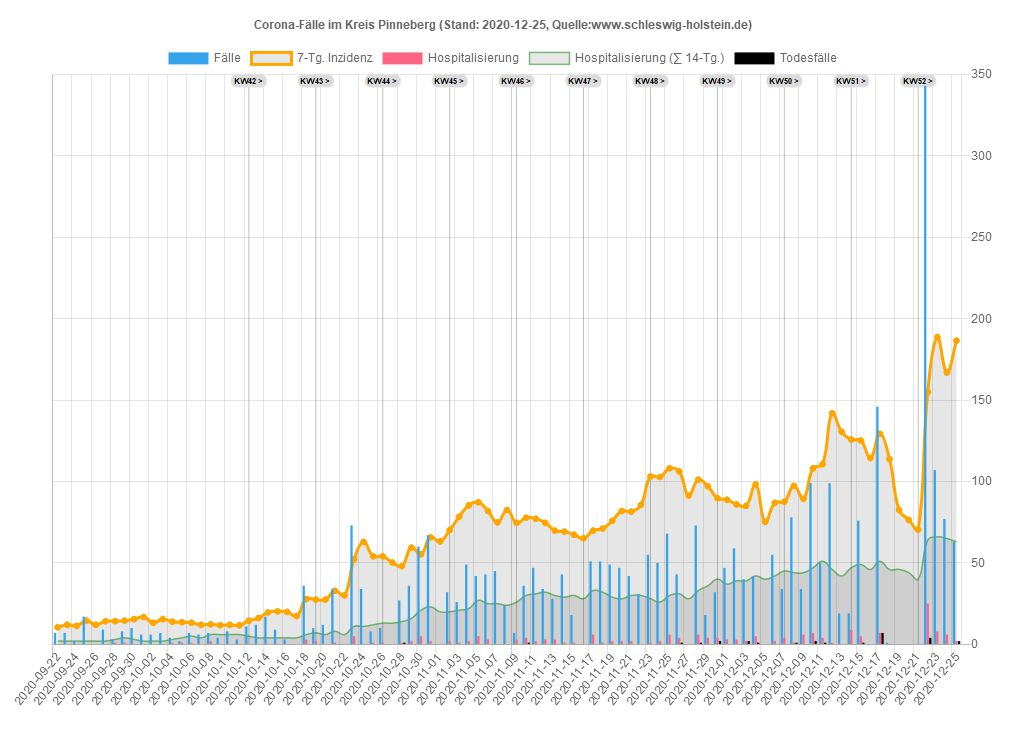
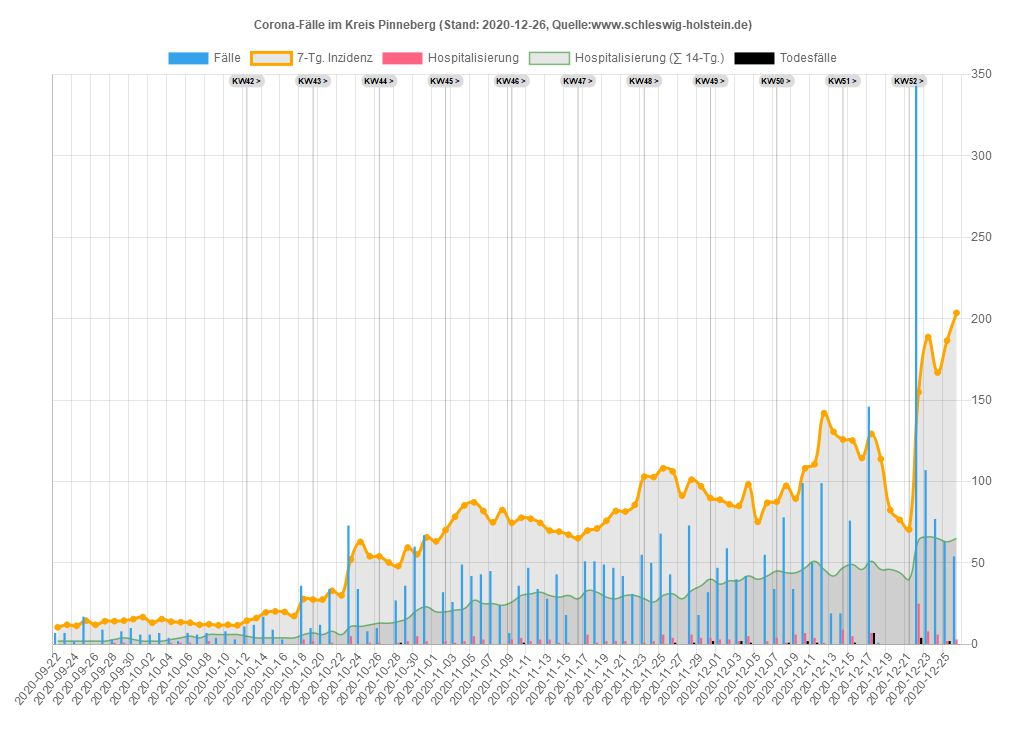
26.12.2020 21:21:05,03

diff --git a/sh/Data_SH.js b/sh/Data_SH.js
@@ -1,33 +1,33 @@
 var chdata={
-labels: ["2020-09-22","2020-09-23","2020-09-24","2020-09-25","2020-09-26","2020-09-27","2020-09-28","2020-09-29","2020-09-30","2020-10-01","2020-10-02","2020-10-03","2020-10-04","2020-10-05","2020-10-06","2020-10-07","2020-10-08","2020-10-09","2020-10-10","2020-10-11","2020-10-12","2020-10-13","2020-10-14","2020-10-15","2020-10-16","2020-10-17","2020-10-18","2020-10-19","2020-10-20","2020-10-21","2020-10-22","2020-10-23","2020-10-24","2020-10-25","2020-10-26","2020-10-27","2020-10-28","2020-10-29","2020-10-30","2020-10-31","2020-11-01","2020-11-02","2020-11-03","2020-11-04","2020-11-05","2020-11-06","2020-11-07","2020-11-08","2020-11-09","2020-11-10","2020-11-11","2020-11-12","2020-11-13","2020-11-14","2020-11-15","2020-11-16","2020-11-17","2020-11-18","2020-11-19","2020-11-20","2020-11-21","2020-11-22","2020-11-23","2020-11-24","2020-11-25","2020-11-26","2020-11-27","2020-11-28","2020-11-29","2020-11-30","2020-12-01","2020-12-02","2020-12-03","2020-12-04","2020-12-05","2020-12-06","2020-12-07","2020-12-08","2020-12-09","2020-12-10","2020-12-11","2020-12-12","2020-12-13","2020-12-14","2020-12-15","2020-12-16","2020-12-17","2020-12-18","2020-12-19","2020-12-20","2020-12-21","2020-12-22","2020-12-23","2020-12-24","2020-12-25"],
+labels: ["2020-09-22","2020-09-23","2020-09-24","2020-09-25","2020-09-26","2020-09-27","2020-09-28","2020-09-29","2020-09-30","2020-10-01","2020-10-02","2020-10-03","2020-10-04","2020-10-05","2020-10-06","2020-10-07","2020-10-08","2020-10-09","2020-10-10","2020-10-11","2020-10-12","2020-10-13","2020-10-14","2020-10-15","2020-10-16","2020-10-17","2020-10-18","2020-10-19","2020-10-20","2020-10-21","2020-10-22","2020-10-23","2020-10-24","2020-10-25","2020-10-26","2020-10-27","2020-10-28","2020-10-29","2020-10-30","2020-10-31","2020-11-01","2020-11-02","2020-11-03","2020-11-04","2020-11-05","2020-11-06","2020-11-07","2020-11-08","2020-11-09","2020-11-10","2020-11-11","2020-11-12","2020-11-13","2020-11-14","2020-11-15","2020-11-16","2020-11-17","2020-11-18","2020-11-19","2020-11-20","2020-11-21","2020-11-22","2020-11-23","2020-11-24","2020-11-25","2020-11-26","2020-11-27","2020-11-28","2020-11-29","2020-11-30","2020-12-01","2020-12-02","2020-12-03","2020-12-04","2020-12-05","2020-12-06","2020-12-07","2020-12-08","2020-12-09","2020-12-10","2020-12-11","2020-12-12","2020-12-13","2020-12-14","2020-12-15","2020-12-16","2020-12-17","2020-12-18","2020-12-19","2020-12-20","2020-12-21","2020-12-22","2020-12-23","2020-12-24","2020-12-25","2020-12-26"],
 datasets: [
 {label: 'Fälle',
 type: 'bar',
 backgroundColor: window.chartColors.blue,
-data: [38,42,63,53,15,15,38,48,49,27,50,16,24,39,54,45,79,54,26,25,65,65,65,55,90,26,88,163,111,160,136,236,142,115,164,164,280,215,313,265,161,142,236,262,220,274,233,177,215,252,247,192,296,158,161,100,294,208,264,250,153,121,145,251,256,225,180,219,71,81,244,240,245,318,234,154,183,314,297,529,384,472,140,241,486,322,602,508,431,157,211,776,722,306,229]},
+data: [38,42,63,53,15,15,38,48,49,27,50,16,24,39,54,45,79,54,26,25,65,65,65,55,90,26,88,163,111,160,136,236,142,115,164,164,280,215,313,265,161,142,236,262,220,274,233,177,215,252,247,192,296,158,161,100,294,208,264,250,153,121,145,251,256,225,180,219,71,81,244,240,245,318,234,154,183,314,297,529,384,472,140,241,486,322,602,508,431,157,211,776,722,306,229,229]},
 {label: '7-Tg. Inzidenz',
 type: 'line',
 pointBackgroundColor: 'orange',
 borderColor: 'orange',
-data: [7.23197027,7.88629139,8.74724023,9.40156135,9.33268544,9.16049567,9.09161977,9.4359993,9.67706498,8.43729865,8.33398478,8.36842274,8.67836432,8.71280227,8.91943,8.78167818,10.5724518,10.7102036,11.0545831,11.0890211,11.9844079,12.3632254,13.0519844,12.2254735,13.4652399,13.4652399,15.634831,19.0097504,20.5938963,23.8655019,26.6549761,31.6829174,35.67772,36.6075447,36.6419827,38.4671942,42.5997487,45.320347,47.9720694,52.2079377,53.7920836,53.0344486,55.5139813,54.8940981,55.0662879,53.7232077,52.6211932,53.1722004,55.6861711,56.2371783,55.720609,54.7563463,55.5139813,52.9311348,52.3801275,48.4197628,49.8661569,48.5230767,51.0026094,49.4184635,49.2462737,47.8687556,49.4184635,47.9376315,49.5906533,48.2475731,45.8369163,48.1098213,46.3879236,44.1838945,43.9428289,43.3918216,44.0805807,48.8330183,49.3495876,52.2079377,55.720609,58.1312658,60.0942291,69.874608,72.1475129,80.3437459,79.8616145,81.8590158,87.7823439,88.6432927,91.1572633,95.4275696,94.0156135,94.6010587,93.5679201,103.554927,117.330108,107.136474,97.5282848]},
+data: [7.23197027,7.88629139,8.74724023,9.40156135,9.33268544,9.16049567,9.09161977,9.4359993,9.67706498,8.43729865,8.33398478,8.36842274,8.67836432,8.71280227,8.91943,8.78167818,10.5724518,10.7102036,11.0545831,11.0890211,11.9844079,12.3632254,13.0519844,12.2254735,13.4652399,13.4652399,15.634831,19.0097504,20.5938963,23.8655019,26.6549761,31.6829174,35.67772,36.6075447,36.6419827,38.4671942,42.5997487,45.320347,47.9720694,52.2079377,53.7920836,53.0344486,55.5139813,54.8940981,55.0662879,53.7232077,52.6211932,53.1722004,55.6861711,56.2371783,55.720609,54.7563463,55.5139813,52.9311348,52.3801275,48.4197628,49.8661569,48.5230767,51.0026094,49.4184635,49.2462737,47.8687556,49.4184635,47.9376315,49.5906533,48.2475731,45.8369163,48.1098213,46.3879236,44.1838945,43.9428289,43.3918216,44.0805807,48.8330183,49.3495876,52.2079377,55.720609,58.1312658,60.0942291,69.874608,72.1475129,80.3437459,79.8616145,81.8590158,87.7823439,88.6432927,91.1572633,95.4275696,94.0156135,94.6010587,93.5679201,103.554927,117.330108,107.136474,97.5282848,90.5718181]},
 {label: 'Hospitalisierung',
 type: 'bar',
 backgroundColor: window.chartColors.red,
-data: [1,2,7,1,0,0,2,1,3,1,1,0,4,3,1,1,4,2,0,3,5,1,1,2,4,0,9,10,8,9,12,7,5,6,7,7,11,10,11,6,3,9,19,20,15,15,5,7,13,15,21,13,17,8,17,13,23,10,15,9,7,7,13,16,26,19,12,14,15,10,12,8,10,14,3,5,24,13,26,20,14,12,6,26,27,16,20,18,8,13,13,43,35,23,17]},
+data: [1,2,7,1,0,0,2,1,3,1,1,0,4,3,1,1,4,2,0,3,5,1,1,2,4,0,9,10,8,9,12,7,5,6,7,7,11,10,11,6,3,9,19,20,15,15,5,7,13,15,21,13,17,8,17,13,23,10,15,9,7,7,13,16,26,19,12,14,15,10,12,8,10,14,3,5,24,13,26,20,14,12,6,26,27,16,20,18,8,13,13,43,35,23,17,21]},
 {label: 'Hosp. (∑ 14-Tg.)',
 type: 'line',
 borderColor: 'rgba(0,255,0,0.5)',
 borderWidth: 1.5,
 pointRadius: 0,
-data: [12,12,20,22,22,22,22,23,23,21,22,21,24,26,26,25,22,23,23,26,29,29,27,28,31,31,36,43,50,58,66,71,76,79,81,87,97,105,112,118,112,111,122,133,136,144,144,145,151,159,169,172,178,180,194,198,202,192,192,186,188,188,188,189,194,200,195,201,199,196,185,183,178,183,179,177,188,185,185,186,188,186,177,193,208,216,226,230,235,243,232,262,271,274,277]},
+data: [12,12,20,22,22,22,22,23,23,21,22,21,24,26,26,25,22,23,23,26,29,29,27,28,31,31,36,43,50,58,66,71,76,79,81,87,97,105,112,118,112,111,122,133,136,144,144,145,151,159,169,172,178,180,194,198,202,192,192,186,188,188,188,189,194,200,195,201,199,196,185,183,178,183,179,177,188,185,185,186,188,186,177,193,208,216,226,230,235,243,232,262,271,274,277,286]},
 {label: 'Aktuell im Krankenhaus',
 type: 'line',
 pointBackgroundColor: 'green',
 borderColor: 'green',
-data: [6,6,6,6,6,6,6,11,11,11,11,14,14,15,15,14,14,14,13,13,18,18,18,21,24,24,24,24,31,31,31,31,51,51,58,58,58,58,58,58,58,94,110,114,119,118,124,120,126,116,113,119,112,116,116,148,145,151,141,141,141,141,155,142,122,113,118,118,118,124,114,110,109,114,114,114,131,122,128,132,133,133,133,177,181,194,201,212,236,250,275,271,267,262,262]},
+data: [6,6,6,6,6,6,6,11,11,11,11,14,14,15,15,14,14,14,13,13,18,18,18,21,24,24,24,24,31,31,31,31,51,51,58,58,58,58,58,58,58,94,110,114,119,118,124,120,126,116,113,119,112,116,116,148,145,151,141,141,141,141,155,142,122,113,118,118,118,124,114,110,109,114,114,114,131,122,128,132,133,133,133,177,181,194,201,212,236,250,275,271,267,262,262,262]},
 {label: 'Todesfälle',
 type: 'bar',
 backgroundColor: 'black',
-data: [0,0,0,0,0,0,0,1,0,0,0,0,0,0,0,0,0,0,0,0,0,1,0,0,0,0,0,0,0,0,1,0,0,3,0,0,3,4,1,0,2,6,7,2,2,6,0,1,4,3,5,0,5,1,3,5,0,2,2,2,1,0,3,4,1,3,3,1,4,2,3,1,4,1,0,1,4,2,5,7,7,1,2,2,6,7,11,3,2,0,9,15,4,3,4]},
+data: [0,0,0,0,0,0,0,1,0,0,0,0,0,0,0,0,0,0,0,0,0,1,0,0,0,0,0,0,0,0,1,0,0,3,0,0,3,4,1,0,2,6,7,2,2,6,0,1,4,3,5,0,5,1,3,5,0,2,2,2,1,0,3,4,1,3,3,1,4,2,3,1,4,1,0,1,4,2,5,7,7,1,2,2,6,7,11,3,2,0,9,15,4,3,4,7]},
 ]};
 

diff --git a/sh/Data_SH_Alter.js b/sh/Data_SH_Alter.js
@@ -105,7 +105,8 @@ var chdata={
 				{x: '2020-12-22', y: 'Alle', v: 102.797292, casesum: 2985},{x: '2020-12-22', y: '00-09', v: 43.2374319, casesum: 111},{x: '2020-12-22', y: '10-19', v: 104.34518, casesum: 288},{x: '2020-12-22', y: '20-29', v: 150.955426, casesum: 483},{x: '2020-12-22', y: '30-39', v: 114.25545, casesum: 384},{x: '2020-12-22', y: '40-49', v: 115.753547, casesum: 408},{x: '2020-12-22', y: '50-59', v: 111.223029, casesum: 551},{x: '2020-12-22', y: '60-69', v: 77.2976096, casesum: 281},{x: '2020-12-22', y: '70-79', v: 52.3770744, casesum: 155},{x: '2020-12-22', y: '80-89', v: 129.16429, casesum: 231},{x: '2020-12-22', y: '90+', v: 322.737368, casesum: 93},
 				{x: '2020-12-23', y: 'Alle', v: 81.411839, casesum: 2364.015},{x: '2020-12-23', y: '00-09', v: 47.5222225, casesum: 122},{x: '2020-12-23', y: '10-19', v: 111.953682, casesum: 309},{x: '2020-12-23', y: '20-29', v: 163.456911, casesum: 523},{x: '2020-12-23', y: '30-39', v: 130.620163, casesum: 439},{x: '2020-12-23', y: '40-49', v: 133.910966, casesum: 472},{x: '2020-12-23', y: '50-59', v: -83.1619234, casesum: -411.985},{x: '2020-12-23', y: '60-69', v: 92.4270349, casesum: 336},{x: '2020-12-23', y: '70-79', v: 57.1079069, casesum: 169},{x: '2020-12-23', y: '80-89', v: 158.799387, casesum: 284},{x: '2020-12-23', y: '90+', v: 423.375902, casesum: 122},
 				{x: '2020-12-24', y: 'Alle', v: 1.9639965, casesum: 57.030},{x: '2020-12-24', y: '00-09', v: 40.1212206, casesum: 103},{x: '2020-12-24', y: '10-19', v: 103.258251, casesum: 285},{x: '2020-12-24', y: '20-29', v: -165.331508, casesum: -528.998},{x: '2020-12-24', y: '30-39', v: 122.586577, casesum: 412},{x: '2020-12-24', y: '40-49', v: 121.427741, casesum: 428},{x: '2020-12-24', y: '50-59', v: -306.614641, casesum: -1518.972},{x: '2020-12-24', y: '60-69', v: 85.5500234, casesum: 311},{x: '2020-12-24', y: '70-79', v: 52.0391578, casesum: 154},{x: '2020-12-24', y: '80-89', v: 159.35854, casesum: 285},{x: '2020-12-24', y: '90+', v: 440.727374, casesum: 127},
-				{x: '2020-12-25', y: 'Alle', v: -8.33178076, casesum: -241.936},{x: '2020-12-25', y: '00-09', v: 35.0573772, casesum: 90},{x: '2020-12-25', y: '10-19', v: 93.8381998, casesum: 259},{x: '2020-12-25', y: '20-29', v: -182.518862, casesum: -583.991},{x: '2020-12-25', y: '30-39', v: 113.66037, casesum: 382},{x: '2020-12-25', y: '40-49', v: 105.539999, casesum: 372},{x: '2020-12-25', y: '50-59', v: -318.115022, casesum: -1575.945},{x: '2020-12-25', y: '60-69', v: 78.9480923, casesum: 287},{x: '2020-12-25', y: '70-79', v: 46.632492, casesum: 138},{x: '2020-12-25', y: '80-89', v: 152.089554, casesum: 272},{x: '2020-12-25', y: '90+', v: 409.494725, casesum: 118}
+				{x: '2020-12-25', y: 'Alle', v: -8.33178076, casesum: -241.936},{x: '2020-12-25', y: '00-09', v: 35.0573772, casesum: 90},{x: '2020-12-25', y: '10-19', v: 93.8381998, casesum: 259},{x: '2020-12-25', y: '20-29', v: -182.518862, casesum: -583.991},{x: '2020-12-25', y: '30-39', v: 113.66037, casesum: 382},{x: '2020-12-25', y: '40-49', v: 105.539999, casesum: 372},{x: '2020-12-25', y: '50-59', v: -318.115022, casesum: -1575.945},{x: '2020-12-25', y: '60-69', v: 78.9480923, casesum: 287},{x: '2020-12-25', y: '70-79', v: 46.632492, casesum: 138},{x: '2020-12-25', y: '80-89', v: 152.089554, casesum: 272},{x: '2020-12-25', y: '90+', v: 409.494725, casesum: 118},
+				{x: '2020-12-26', y: 'Alle', v: -16.2857772, casesum: -472.902},{x: '2020-12-26', y: '00-09', v: 29.9935339, casesum: 77},{x: '2020-12-26', y: '10-19', v: 83.6935295, casesum: 231},{x: '2020-12-26', y: '20-29', v: -199.079266, casesum: -636.978},{x: '2020-12-26', y: '30-39', v: 108.007105, casesum: 363},{x: '2020-12-26', y: '40-49', v: 97.0287086, casesum: 342},{x: '2020-12-26', y: '50-59', v: -331.63518, casesum: -1642.924},{x: '2020-12-26', y: '60-69', v: 75.9222072, casesum: 276},{x: '2020-12-26', y: '70-79', v: 44.6049924, casesum: 132},{x: '2020-12-26', y: '80-89', v: 148.734637, casesum: 266},{x: '2020-12-26', y: '90+', v: 416.435314, casesum: 120}
 			],
 			backgroundColor: function(context) {
 				return inzColor(context.dataset.data[context.dataIndex].v)
@@ -113,7 +114,7 @@ var chdata={
 			width: function(context) {
 				const a = context.chart.chartArea
 				if (!a) return 0
-				return (a.right - a.left) / 102.5
+				return (a.right - a.left) / 103.5
 			},
 			height: function(context) {
 				const a = context.chart.chartArea
@@ -125,7 +126,7 @@ var chdata={
 	options: {
 		legend: { display: false },
 		scales: {
-			xAxes: [{type: 'category', labels: ["2020-09-15","2020-09-16","2020-09-17","2020-09-18","2020-09-19","2020-09-20","2020-09-21","2020-09-22","2020-09-23","2020-09-24","2020-09-25","2020-09-26","2020-09-27","2020-09-28","2020-09-29","2020-09-30","2020-10-01","2020-10-02","2020-10-03","2020-10-04","2020-10-05","2020-10-06","2020-10-07","2020-10-08","2020-10-09","2020-10-10","2020-10-11","2020-10-12","2020-10-13","2020-10-14","2020-10-15","2020-10-16","2020-10-17","2020-10-18","2020-10-19","2020-10-20","2020-10-21","2020-10-22","2020-10-23","2020-10-24","2020-10-25","2020-10-26","2020-10-27","2020-10-28","2020-10-29","2020-10-30","2020-10-31","2020-11-01","2020-11-02","2020-11-03","2020-11-04","2020-11-05","2020-11-06","2020-11-07","2020-11-08","2020-11-09","2020-11-10","2020-11-11","2020-11-12","2020-11-13","2020-11-14","2020-11-15","2020-11-16","2020-11-17","2020-11-18","2020-11-19","2020-11-20","2020-11-21","2020-11-22","2020-11-23","2020-11-24","2020-11-25","2020-11-26","2020-11-27","2020-11-28","2020-11-29","2020-11-30","2020-12-01","2020-12-02","2020-12-03","2020-12-04","2020-12-05","2020-12-06","2020-12-07","2020-12-08","2020-12-09","2020-12-10","2020-12-11","2020-12-12","2020-12-13","2020-12-14","2020-12-15","2020-12-16","2020-12-17","2020-12-18","2020-12-19","2020-12-20","2020-12-21","2020-12-22","2020-12-23","2020-12-24","2020-12-25",], ticks: {display: true},gridlines:{display:false}}],
+			xAxes: [{type: 'category', labels: ["2020-09-15","2020-09-16","2020-09-17","2020-09-18","2020-09-19","2020-09-20","2020-09-21","2020-09-22","2020-09-23","2020-09-24","2020-09-25","2020-09-26","2020-09-27","2020-09-28","2020-09-29","2020-09-30","2020-10-01","2020-10-02","2020-10-03","2020-10-04","2020-10-05","2020-10-06","2020-10-07","2020-10-08","2020-10-09","2020-10-10","2020-10-11","2020-10-12","2020-10-13","2020-10-14","2020-10-15","2020-10-16","2020-10-17","2020-10-18","2020-10-19","2020-10-20","2020-10-21","2020-10-22","2020-10-23","2020-10-24","2020-10-25","2020-10-26","2020-10-27","2020-10-28","2020-10-29","2020-10-30","2020-10-31","2020-11-01","2020-11-02","2020-11-03","2020-11-04","2020-11-05","2020-11-06","2020-11-07","2020-11-08","2020-11-09","2020-11-10","2020-11-11","2020-11-12","2020-11-13","2020-11-14","2020-11-15","2020-11-16","2020-11-17","2020-11-18","2020-11-19","2020-11-20","2020-11-21","2020-11-22","2020-11-23","2020-11-24","2020-11-25","2020-11-26","2020-11-27","2020-11-28","2020-11-29","2020-11-30","2020-12-01","2020-12-02","2020-12-03","2020-12-04","2020-12-05","2020-12-06","2020-12-07","2020-12-08","2020-12-09","2020-12-10","2020-12-11","2020-12-12","2020-12-13","2020-12-14","2020-12-15","2020-12-16","2020-12-17","2020-12-18","2020-12-19","2020-12-20","2020-12-21","2020-12-22","2020-12-23","2020-12-24","2020-12-25","2020-12-26",], ticks: {display: true},gridlines:{display:false}}],
 			yAxes: [{type: 'category', labels: ["Alle","00-09","10-19","20-29","30-39","40-49","50-59","60-69","70-79","80-89","90+"], offset:true, ticks: {display: true},gridlines:{display:false}}],
 		},
 	}

diff --git a/sh/Kreis_PI.js b/sh/Kreis_PI.js
@@ -1,33 +1,33 @@
 var chdata={
-labels: ["2020-09-22","2020-09-23","2020-09-24","2020-09-25","2020-09-26","2020-09-27","2020-09-28","2020-09-29","2020-09-30","2020-10-01","2020-10-02","2020-10-03","2020-10-04","2020-10-05","2020-10-06","2020-10-07","2020-10-08","2020-10-09","2020-10-10","2020-10-11","2020-10-12","2020-10-13","2020-10-14","2020-10-15","2020-10-16","2020-10-17","2020-10-18","2020-10-19","2020-10-20","2020-10-21","2020-10-22","2020-10-23","2020-10-24","2020-10-25","2020-10-26","2020-10-27","2020-10-28","2020-10-29","2020-10-30","2020-10-31","2020-11-01","2020-11-02","2020-11-03","2020-11-04","2020-11-05","2020-11-06","2020-11-07","2020-11-08","2020-11-09","2020-11-10","2020-11-11","2020-11-12","2020-11-13","2020-11-14","2020-11-15","2020-11-16","2020-11-17","2020-11-18","2020-11-19","2020-11-20","2020-11-21","2020-11-22","2020-11-23","2020-11-24","2020-11-25","2020-11-26","2020-11-27","2020-11-28","2020-11-29","2020-11-30","2020-12-01","2020-12-02","2020-12-03","2020-12-04","2020-12-05","2020-12-06","2020-12-07","2020-12-08","2020-12-09","2020-12-10","2020-12-11","2020-12-12","2020-12-13","2020-12-14","2020-12-15","2020-12-16","2020-12-17","2020-12-18","2020-12-19","2020-12-20","2020-12-21","2020-12-22","2020-12-23","2020-12-24","2020-12-25"],
+labels: ["2020-09-22","2020-09-23","2020-09-24","2020-09-25","2020-09-26","2020-09-27","2020-09-28","2020-09-29","2020-09-30","2020-10-01","2020-10-02","2020-10-03","2020-10-04","2020-10-05","2020-10-06","2020-10-07","2020-10-08","2020-10-09","2020-10-10","2020-10-11","2020-10-12","2020-10-13","2020-10-14","2020-10-15","2020-10-16","2020-10-17","2020-10-18","2020-10-19","2020-10-20","2020-10-21","2020-10-22","2020-10-23","2020-10-24","2020-10-25","2020-10-26","2020-10-27","2020-10-28","2020-10-29","2020-10-30","2020-10-31","2020-11-01","2020-11-02","2020-11-03","2020-11-04","2020-11-05","2020-11-06","2020-11-07","2020-11-08","2020-11-09","2020-11-10","2020-11-11","2020-11-12","2020-11-13","2020-11-14","2020-11-15","2020-11-16","2020-11-17","2020-11-18","2020-11-19","2020-11-20","2020-11-21","2020-11-22","2020-11-23","2020-11-24","2020-11-25","2020-11-26","2020-11-27","2020-11-28","2020-11-29","2020-11-30","2020-12-01","2020-12-02","2020-12-03","2020-12-04","2020-12-05","2020-12-06","2020-12-07","2020-12-08","2020-12-09","2020-12-10","2020-12-11","2020-12-12","2020-12-13","2020-12-14","2020-12-15","2020-12-16","2020-12-17","2020-12-18","2020-12-19","2020-12-20","2020-12-21","2020-12-22","2020-12-23","2020-12-24","2020-12-25","2020-12-26"],
 datasets: [
 {label: 'Fälle',
 type: 'bar',
 backgroundColor: window.chartColors.blue,
 yAxisID: 'first-y-axis',
-data: [7,7,2,17,0,9,3,8,10,6,6,7,4,2,7,6,7,4,8,3,11,12,17,9,3,0,36,10,12,34,0,73,34,8,10,0,27,36,60,67,0,32,26,49,42,43,45,24,7,36,47,34,28,43,18,0,51,51,49,47,42,31,55,50,68,43,0,73,18,32,47,59,40,42,0,55,34,78,34,99,50,99,19,19,76,0,146,1,0,0,0,343,107,77,63]},
+data: [7,7,2,17,0,9,3,8,10,6,6,7,4,2,7,6,7,4,8,3,11,12,17,9,3,0,36,10,12,34,0,73,34,8,10,0,27,36,60,67,0,32,26,49,42,43,45,24,7,36,47,34,28,43,18,0,51,51,49,47,42,31,55,50,68,43,0,73,18,32,47,59,40,42,0,55,34,78,34,99,50,99,19,19,76,0,146,1,0,0,0,343,107,77,63,54]},
 {label: '7-Tg. Inzidenz',
 type: 'line',
 pointBackgroundColor: 'orange',
 borderColor: 'orange',
 yAxisID: 'first-y-axis',
-data: [10.4300994,12.0104175,11.3782902,14.5389264,12.0104175,14.2228628,14.2228628,14.5389264,15.4871172,16.7513717,13.2746719,15.4871172,13.9067992,13.5907355,13.2746719,12.0104175,12.3264811,11.6943538,12.0104175,11.6943538,14.5389264,16.1192445,19.5959443,20.2280715,19.9120079,17.383499,27.8135983,27.4975347,27.4975347,32.8706162,30.0260436,52.1504969,62.8966598,54.0468786,54.0468786,50.2541151,48.0416698,59.41996,55.311133,65.7412324,63.2127235,70.166123,78.3837771,85.3371767,87.2335584,81.8604769,74.9070773,82.4926041,74.5910137,77.7516499,77.1195226,74.5910137,69.8500594,69.2179322,67.3215505,65.1091052,69.8500594,71.1143139,75.8552681,81.8604769,81.5444133,85.6532403,103.036739,102.720676,108.093757,106.197375,91.3423854,101.140358,97.0315305,89.7620673,88.8138765,85.9693039,85.021113,98.295785,75.2231409,86.9174948,87.549622,97.3475941,89.4460037,108.093757,110.622266,141.912564,130.534274,125.79332,125.161192,114.415029,129.270019,113.782902,82.4926041,76.4873954,70.4821867,154.871172,188.68998,166.88159,186.477534]},
+data: [10.4300994,12.0104175,11.3782902,14.5389264,12.0104175,14.2228628,14.2228628,14.5389264,15.4871172,16.7513717,13.2746719,15.4871172,13.9067992,13.5907355,13.2746719,12.0104175,12.3264811,11.6943538,12.0104175,11.6943538,14.5389264,16.1192445,19.5959443,20.2280715,19.9120079,17.383499,27.8135983,27.4975347,27.4975347,32.8706162,30.0260436,52.1504969,62.8966598,54.0468786,54.0468786,50.2541151,48.0416698,59.41996,55.311133,65.7412324,63.2127235,70.166123,78.3837771,85.3371767,87.2335584,81.8604769,74.9070773,82.4926041,74.5910137,77.7516499,77.1195226,74.5910137,69.8500594,69.2179322,67.3215505,65.1091052,69.8500594,71.1143139,75.8552681,81.8604769,81.5444133,85.6532403,103.036739,102.720676,108.093757,106.197375,91.3423854,101.140358,97.0315305,89.7620673,88.8138765,85.9693039,85.021113,98.295785,75.2231409,86.9174948,87.549622,97.3475941,89.4460037,108.093757,110.622266,141.912564,130.534274,125.79332,125.161192,114.415029,129.270019,113.782902,82.4926041,76.4873954,70.4821867,154.871172,188.68998,166.88159,186.477534,203.54497]},
 {label: 'Hospitalisierung',
 type: 'bar',
 backgroundColor: window.chartColors.red,
 yAxisID: 'first-y-axis',
-data: [0,0,0,0,0,0,1,1,0,0,0,0,1,1,1,-1,2,0,0,0,0,0,0,0,0,0,3,2,0,1,0,5,0,1,1,0,1,2,5,2,0,2,1,2,5,3,0,0,3,4,2,3,3,1,1,0,6,1,2,2,2,0,1,2,6,4,0,6,4,4,3,3,2,5,0,2,4,1,6,7,4,1,0,9,5,0,7,0,0,0,0,25,8,6,2]},
+data: [0,0,0,0,0,0,1,1,0,0,0,0,1,1,1,-1,2,0,0,0,0,0,0,0,0,0,3,2,0,1,0,5,0,1,1,0,1,2,5,2,0,2,1,2,5,3,0,0,3,4,2,3,3,1,1,0,6,1,2,2,2,0,1,2,6,4,0,6,4,4,3,3,2,5,0,2,4,1,6,7,4,1,0,9,5,0,7,0,0,0,0,25,8,6,2,3]},
 {label: 'Hospitalisierung (∑ 14-Tg.)',
 type: 'line',
 pointRadius: 0,
 borderColor: 'rgba(0,128,0,0.5)',
 borderWidth: 1.5,
 yAxisID: 'first-y-axis',
-data: [2,2,2,2,2,2,3,4,3,2,2,2,3,4,5,4,6,6,6,6,5,4,4,4,4,4,6,7,6,8,6,11,11,12,13,13,14,16,21,23,20,20,21,22,27,25,25,24,26,30,31,32,30,29,30,28,33,32,29,28,30,30,28,26,30,31,28,33,36,40,37,39,39,42,40,42,45,44,44,47,51,46,42,47,49,46,51,46,46,44,40,64,66,65,63]},
+data: [2,2,2,2,2,2,3,4,3,2,2,2,3,4,5,4,6,6,6,6,5,4,4,4,4,4,6,7,6,8,6,11,11,12,13,13,14,16,21,23,20,20,21,22,27,25,25,24,26,30,31,32,30,29,30,28,33,32,29,28,30,30,28,26,30,31,28,33,36,40,37,39,39,42,40,42,45,44,44,47,51,46,42,47,49,46,51,46,46,44,40,64,66,65,63,65]},
 {label: 'Todesfälle',
 type: 'bar',
 backgroundColor: 'black',
 yAxisID: 'first-y-axis',
-data: [0,0,0,0,0,0,0,0,0,0,0,0,0,0,0,0,0,0,0,0,0,0,0,0,0,0,0,0,0,0,0,0,0,0,0,0,1,0,0,0,0,0,0,0,0,0,0,0,0,1,0,0,0,0,0,0,0,0,0,0,0,0,0,0,0,1,0,1,0,2,0,0,2,1,0,0,0,1,0,2,1,0,0,0,1,0,7,0,0,0,0,4,0,0,2]},
+data: [0,0,0,0,0,0,0,0,0,0,0,0,0,0,0,0,0,0,0,0,0,0,0,0,0,0,0,0,0,0,0,0,0,0,0,0,1,0,0,0,0,0,0,0,0,0,0,0,0,1,0,0,0,0,0,0,0,0,0,0,0,0,0,0,0,1,0,1,0,2,0,0,2,1,0,0,0,1,0,2,1,0,0,0,1,0,7,0,0,0,0,4,0,0,2,0]},
 ]};
 

diff --git a/sh/index_sh_alter.html b/sh/index_sh_alter.html
@@ -5,7 +5,7 @@
 <meta property="og:image" content="index_sh_alter.jpg" />
 <meta property="og:type" content="website" />
 <meta property="og:locale" content="de_DE" />
-<meta property="og:updated_time" content="2020-12-26T14:19:51+01:00" />
+<meta property="og:updated_time" content="2020-12-26T21:21:04+01:00" />
 <title>Altersverteilung der Corona-Fälle in Schleswig-Holstein</title>
 <link rel="stylesheet" href="../css/style.css" media="screen" type="text/css">
 <link rel="stylesheet" media="screen" href="Chart.min.css"> 

diff --git a/sh/index_pi_alter.html b/sh/index_pi_alter.html
@@ -5,7 +5,7 @@
 <meta property="og:image" content="index_pi_alter.jpg" />
 <meta property="og:type" content="website" />
 <meta property="og:locale" content="de_DE" />
-<meta property="og:updated_time" content="2020-12-26T14:19:51+01:00" />
+<meta property="og:updated_time" content="2020-12-26T21:21:04+01:00" />
 <title>Altersverteilung der Corona-Fälle im Kreis Pinneberg</title>
 <link rel="stylesheet" href="../css/style.css" media="screen" type="text/css">
 <link rel="stylesheet" media="screen" href="Chart.min.css"> 

diff --git a/sh/index.html b/sh/index.html
@@ -5,7 +5,7 @@
 <meta property="og:image" content="index.jpg" />
 <meta property="og:type" content="website" />
 <meta property="og:locale" content="de_DE" />
-<meta property="og:updated_time" content="2020-12-26T14:19:51+01:00" />
+<meta property="og:updated_time" content="2020-12-26T21:21:04+01:00" />
 <title>Corona-Fälle im Kreis Pinneberg</title>
 <link rel="stylesheet" href="../css/style.css" media="screen" type="text/css">
 <link rel="stylesheet" media="screen" href="Chart.min.css"> 
